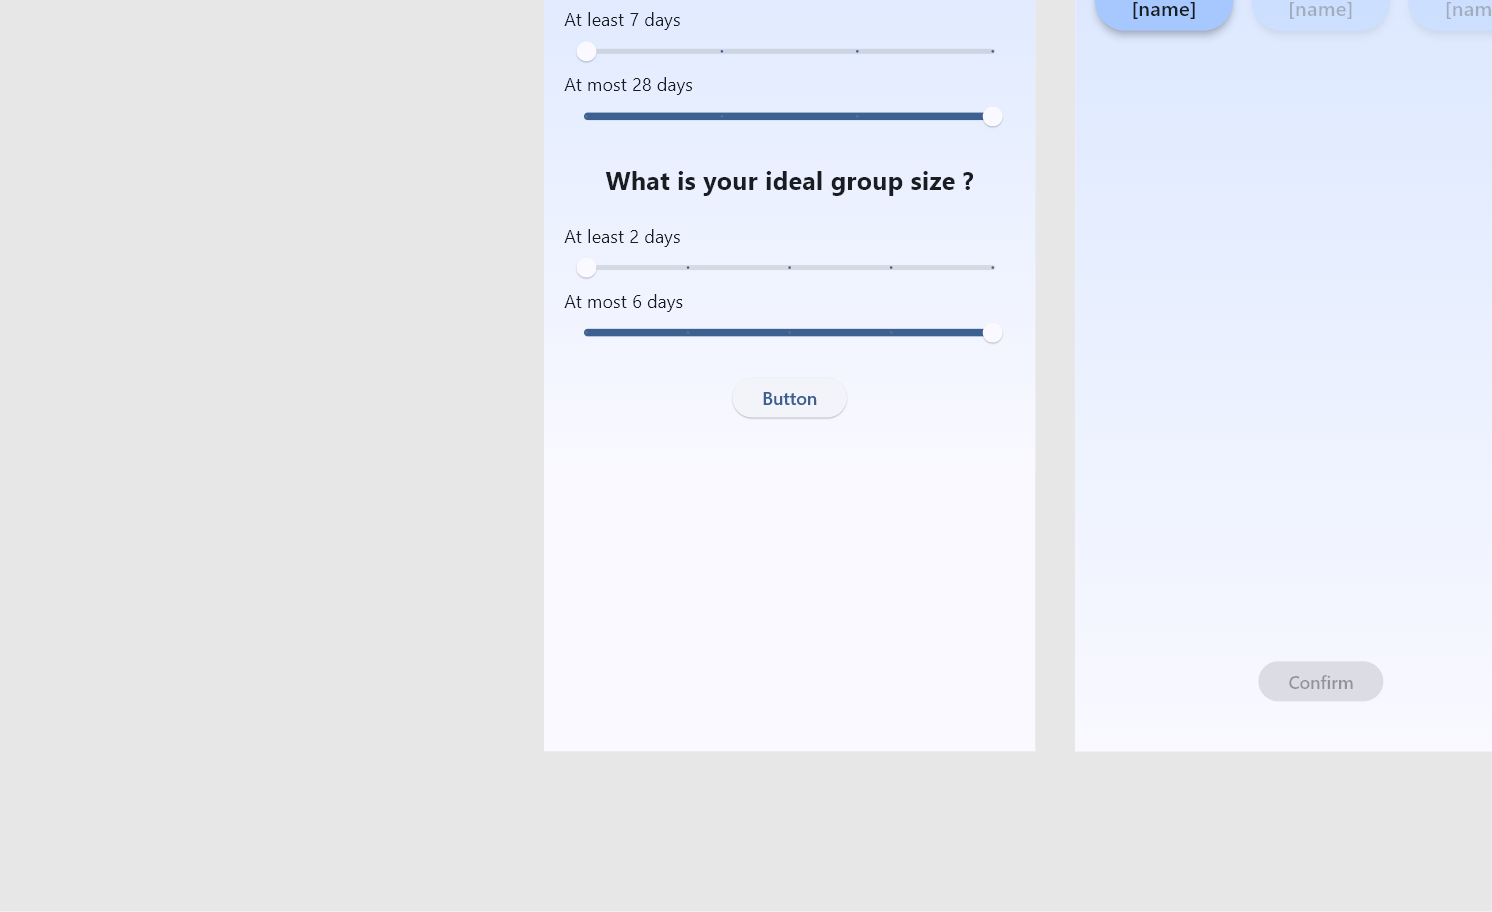
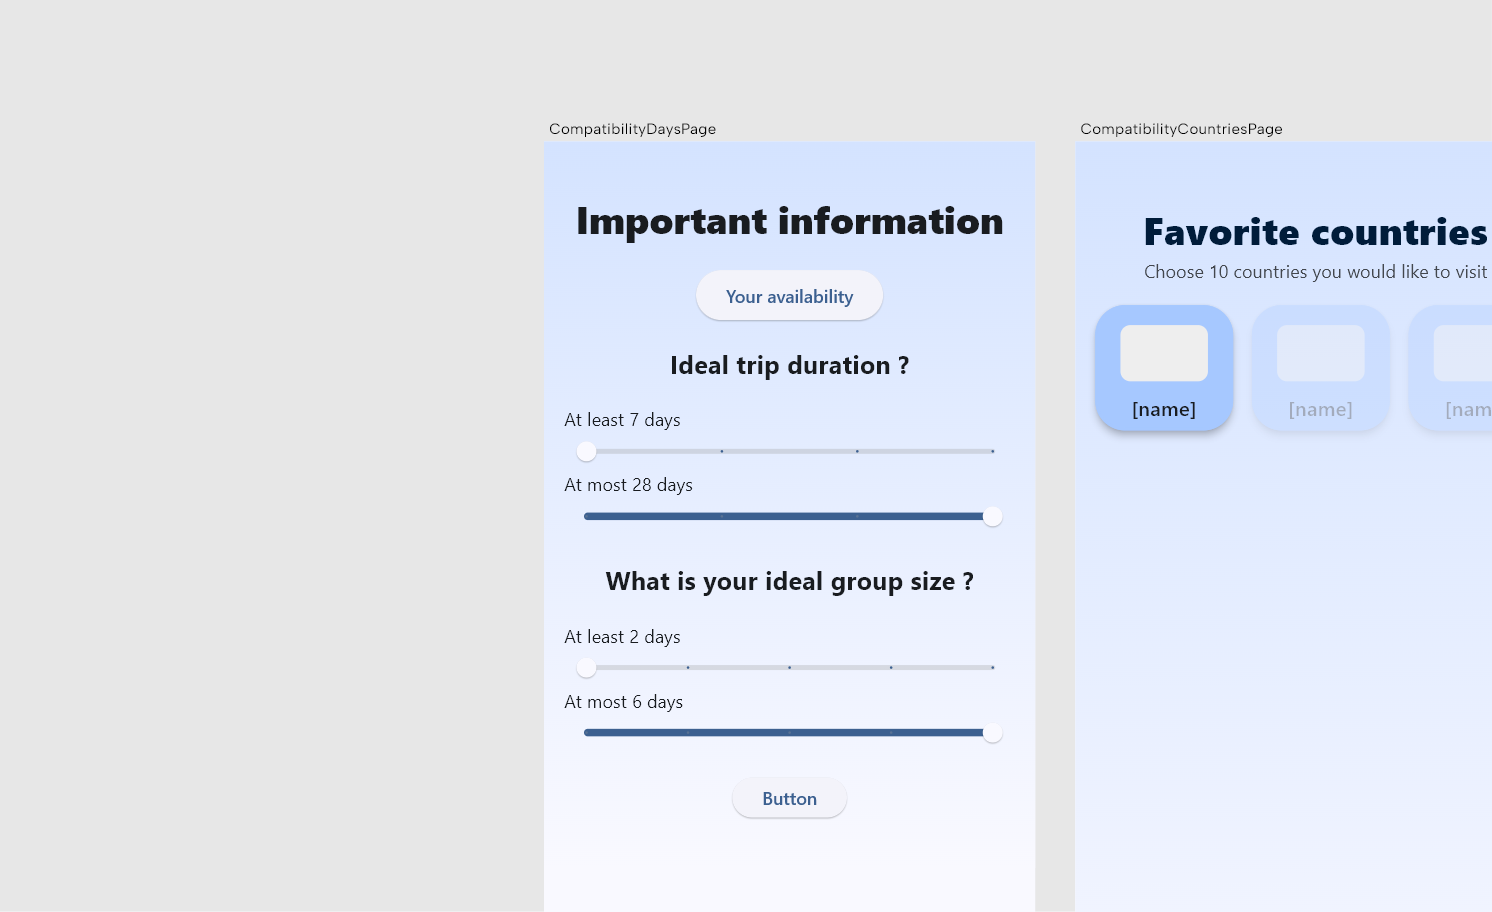
✨ Add validation for min and max days and mates in CompatibilityDaysPage sliders

diff --git a/lib/pages/compatibility_days_page.dart b/lib/pages/compatibility_days_page.dart
@@ -109,9 +109,11 @@ class _CompatibilityDaysPageState extends State<CompatibilityDaysPage> {
                       child: NSlider(
                         value: minDays!.toDouble(),
                         onChanged: (value) {
-                          setState(() {
-                            minDays = value.toInt();
-                          });
+                          if (value <= maxDays!) {
+                            setState(() {
+                              minDays = value.toInt();
+                            });
+                          }
                         },
                         max: 28.0,
                         divisions: 3,
@@ -132,9 +134,11 @@ class _CompatibilityDaysPageState extends State<CompatibilityDaysPage> {
                       child: NSlider(
                         value: maxDays!.toDouble(),
                         onChanged: (value) {
-                          setState(() {
-                            maxDays = value.toInt();
-                          });
+                          if (minDays! <= value) {
+                            setState(() {
+                              maxDays = value.toInt();
+                            });
+                          }
                         },
                         max: 28.0,
                         divisions: 3,
@@ -172,9 +176,11 @@ class _CompatibilityDaysPageState extends State<CompatibilityDaysPage> {
                       child: NSlider(
                         value: minMates!.toDouble(),
                         onChanged: (value) {
-                          setState(() {
-                            minMates = value.toInt();
-                          });
+                          if (value <= maxMates!) {
+                            setState(() {
+                              minMates = value.toInt();
+                            });
+                          }
                         },
                         max: 6.0,
                         divisions: 4,
@@ -195,9 +201,11 @@ class _CompatibilityDaysPageState extends State<CompatibilityDaysPage> {
                       child: NSlider(
                         value: maxMates!.toDouble(),
                         onChanged: (value) {
-                          setState(() {
-                            maxMates = value.toInt();
-                          });
+                          if (minMates! <= value) {
+                            setState(() {
+                              maxMates = value.toInt();
+                            });
+                          }
                         },
                         max: 6.0,
                         divisions: 4,
@@ -216,43 +224,43 @@ class _CompatibilityDaysPageState extends State<CompatibilityDaysPage> {
                     if (startDate != null && endDate != null) {
                       SupabaseService()
                           .createCompatibility(
-                            CompatibilityModel(
-                              start_date: startDate?.toString(),
-                              end_date: endDate?.toString(),
-                              min_days: minDays,
-                              max_days: maxDays,
-                              min_mates: minMates,
-                              max_mates: maxMates,
-                            ),
-                          )
+                        CompatibilityModel(
+                          start_date: startDate?.toString(),
+                          end_date: endDate?.toString(),
+                          min_days: minDays,
+                          max_days: maxDays,
+                          min_mates: minMates,
+                          max_mates: maxMates,
+                        ),
+                      )
                           .then(
-                            (value) {
-                              Navigator.of(context).push(
-                                MaterialPageRoute(
-                                  builder: (context) =>
-                                      const CompatibilityCountriesPage(),
-                                ),
-                              );
-                            },
-                            onError: (error) {
-                              ScaffoldMessenger.of(context).showSnackBar(
-                                SnackBar(
-                                  content: Text(
-                                    'Invalid data, check the entries',
-                                    style: TextStyle(
-                                      color: Theme.of(
-                                        context,
-                                      ).colorScheme.onErrorContainer,
-                                    ),
-                                  ),
-                                  backgroundColor: Theme.of(
-                                    context,
-                                  ).colorScheme.errorContainer,
-                                ),
-                              );
-                              return null;
-                            },
+                        (value) {
+                          Navigator.of(context).push(
+                            MaterialPageRoute(
+                              builder: (context) =>
+                                  const CompatibilityCountriesPage(),
+                            ),
                           );
+                        },
+                        onError: (error) {
+                          ScaffoldMessenger.of(context).showSnackBar(
+                            SnackBar(
+                              content: Text(
+                                'Invalid data, check the entries',
+                                style: TextStyle(
+                                  color: Theme.of(
+                                    context,
+                                  ).colorScheme.onErrorContainer,
+                                ),
+                              ),
+                              backgroundColor: Theme.of(
+                                context,
+                              ).colorScheme.errorContainer,
+                            ),
+                          );
+                          return null;
+                        },
+                      );
                     } else {
                       ScaffoldMessenger.of(context).showSnackBar(
                         SnackBar(
